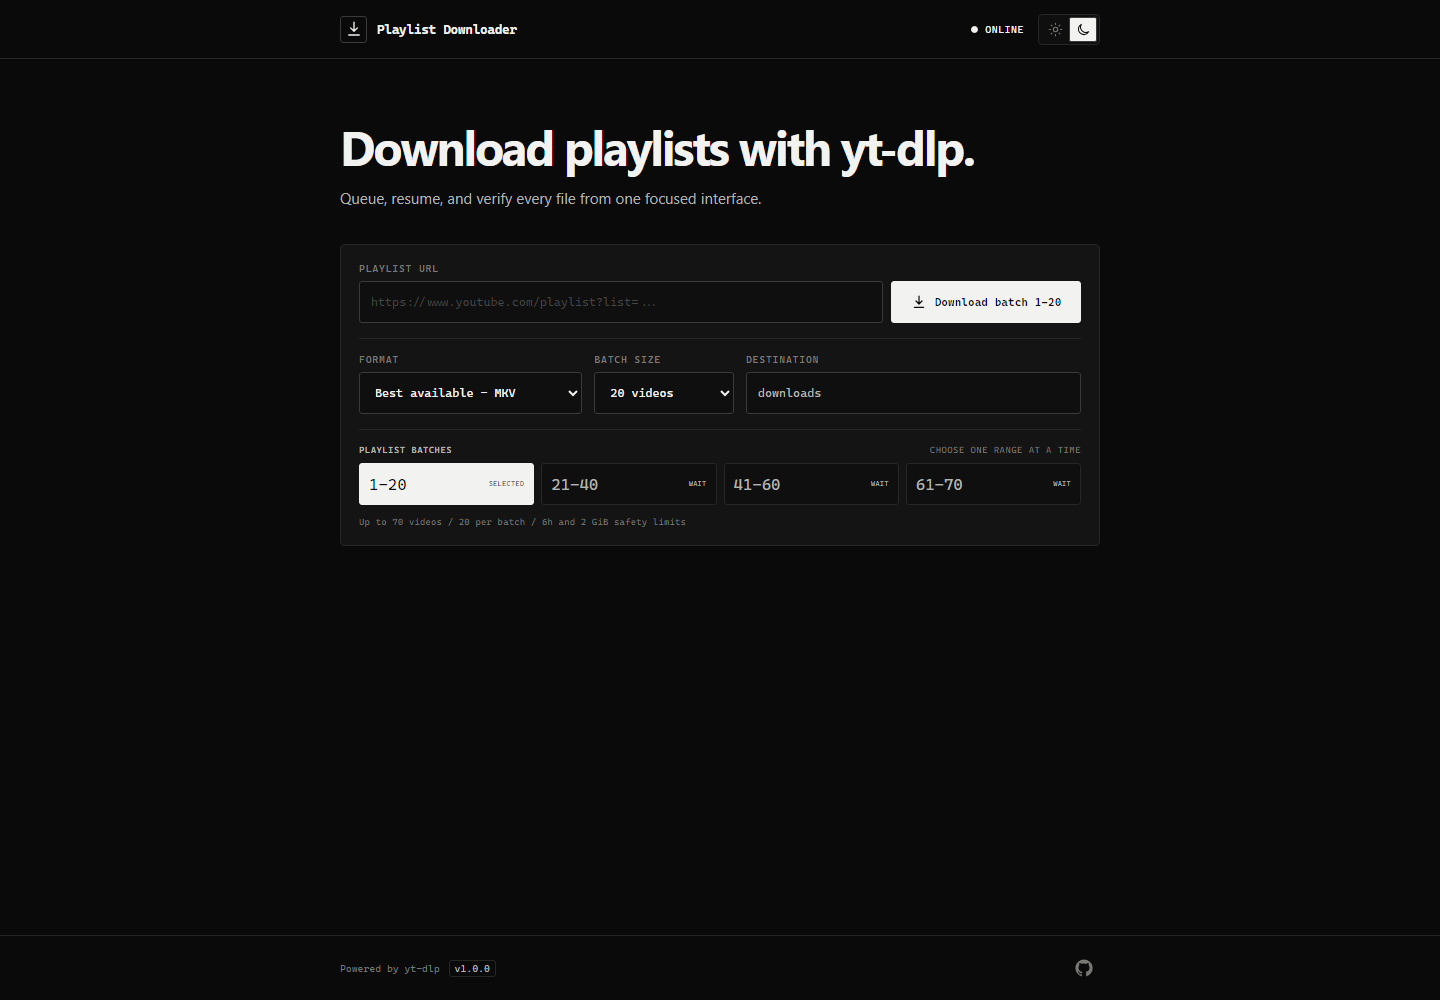
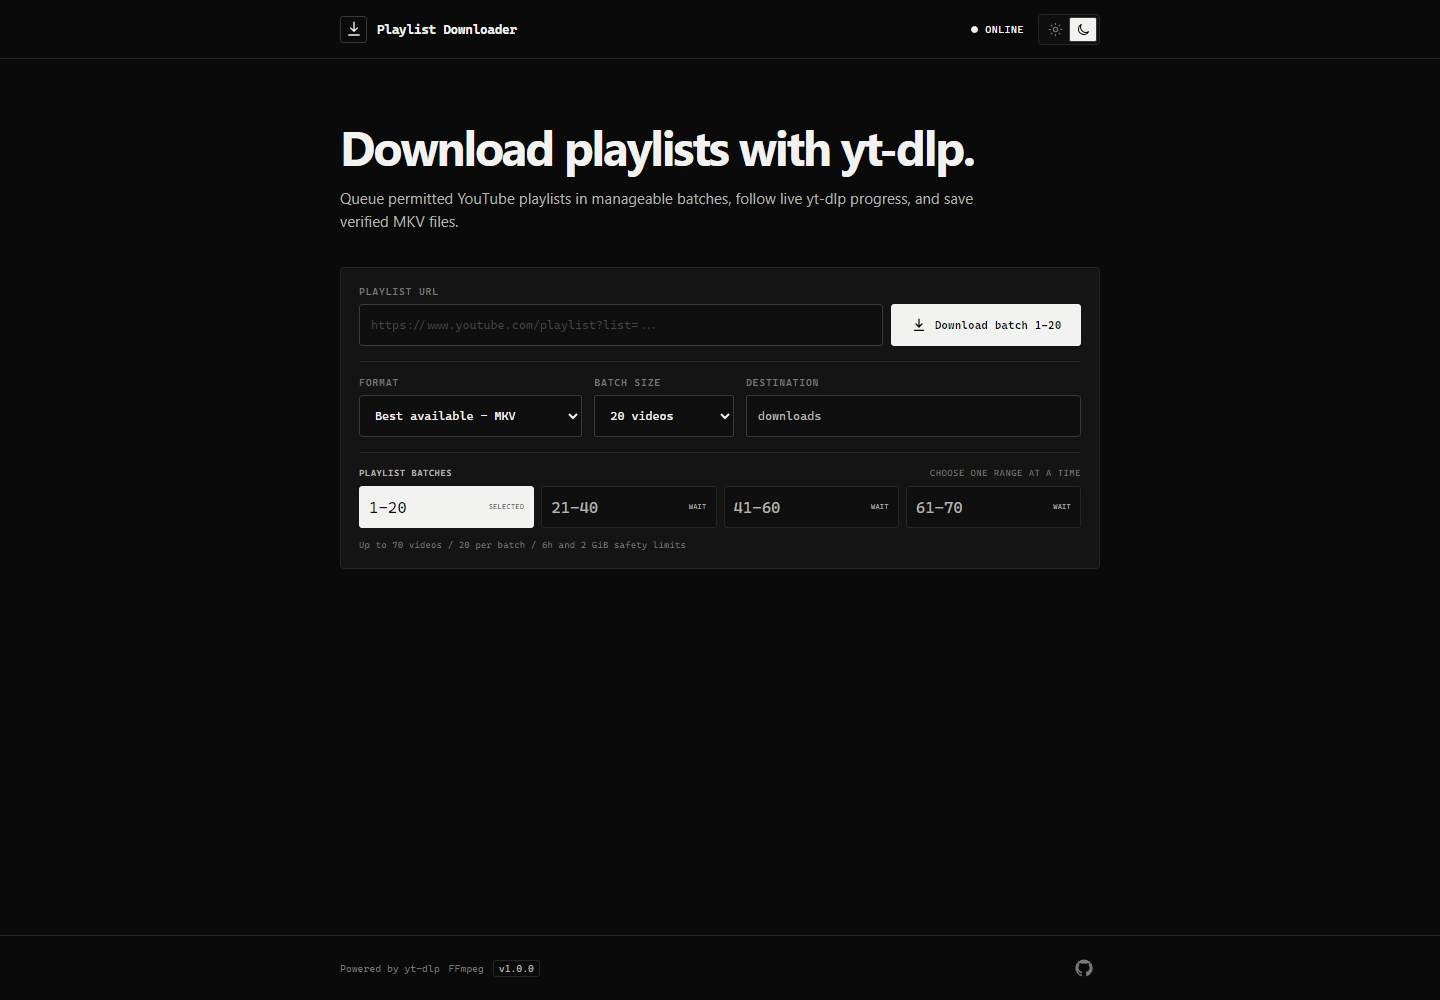
Add production SEO and public crawl metadata

diff --git a/index.html b/index.html
@@ -4,14 +4,50 @@
     <meta charset="UTF-8" />
     <meta name="viewport" content="width=device-width, initial-scale=1.0" />
     <meta name="theme-color" content="#0A0A0A" />
-    <meta
-      name="description"
-      content="A secure, resumable playlist downloader powered by yt-dlp."
-    />
-    <title>Playlist Downloader</title>
+    <meta name="color-scheme" content="dark light" />
+    <meta name="application-name" content="Playlist Downloader UI" />
+    <meta name="author" content="Lakshay Khattar" />
+    <meta name="robots" content="index, follow, max-image-preview:large, max-snippet:-1, max-video-preview:-1" />
+    <meta name="googlebot" content="index, follow, max-image-preview:large, max-snippet:-1, max-video-preview:-1" />
+    <meta name="description" content="A secure, self-hosted yt-dlp web interface for downloading YouTube playlists in manageable batches with live progress, resume support, and file verification." />
+    <meta name="keywords" content="yt-dlp web UI, playlist downloader, self-hosted downloader, YouTube playlist batch downloader, React yt-dlp interface" />
+
+    <link rel="canonical" href="https://playlist-downloader-ui.onrender.com/" />
+    <link rel="author" href="https://github.com/LakshayKhattar" />
+    <link rel="sitemap" type="application/xml" href="/sitemap.xml" />
+    <link rel="icon" href="/favicon.svg" type="image/svg+xml" />
+    <link rel="manifest" href="/site.webmanifest" />
+
+    <meta property="og:type" content="website" />
+    <meta property="og:site_name" content="Playlist Downloader UI" />
+    <meta property="og:title" content="Playlist Downloader UI – Secure yt-dlp Web Interface" />
+    <meta property="og:description" content="Download permitted YouTube playlists in manageable batches with live yt-dlp progress, resumable jobs, and verified output files." />
+    <meta property="og:url" content="https://playlist-downloader-ui.onrender.com/" />
+    <meta property="og:image" content="https://raw.githubusercontent.com/LakshayKhattar/playlist-downloader-ui/main/docs/images/playlist-downloader-ui.png" />
+    <meta property="og:image:type" content="image/png" />
+    <meta property="og:image:width" content="1440" />
+    <meta property="og:image:height" content="1000" />
+    <meta property="og:image:alt" content="Playlist Downloader UI showing selectable playlist batch ranges" />
+    <meta property="og:locale" content="en_US" />
+
+    <meta name="twitter:card" content="summary_large_image" />
+    <meta name="twitter:title" content="Playlist Downloader UI – Secure yt-dlp Web Interface" />
+    <meta name="twitter:description" content="A self-hosted React and Express interface for safe, resumable yt-dlp playlist batches." />
+    <meta name="twitter:image" content="https://raw.githubusercontent.com/LakshayKhattar/playlist-downloader-ui/main/docs/images/playlist-downloader-ui.png" />
+    <meta name="twitter:image:alt" content="Playlist Downloader UI showing selectable playlist batch ranges" />
+
+    <script type="application/ld+json">{"@context":"https://schema.org","@type":"WebApplication","name":"Playlist Downloader UI","url":"https://playlist-downloader-ui.onrender.com/","description":"A secure, self-hosted yt-dlp web interface for downloading permitted YouTube playlists in manageable batches with live progress, resume support, and file verification.","applicationCategory":"MultimediaApplication","operatingSystem":"Any","isAccessibleForFree":true,"license":"https://opensource.org/license/mit","codeRepository":"https://github.com/LakshayKhattar/playlist-downloader-ui","sameAs":["https://github.com/LakshayKhattar/playlist-downloader-ui","https://github.com/yt-dlp/yt-dlp"],"creator":{"@type":"Person","name":"Lakshay Khattar","url":"https://github.com/LakshayKhattar"},"offers":{"@type":"Offer","price":"0","priceCurrency":"USD"}}</script>
+    <title>Playlist Downloader UI | Secure yt-dlp Web Interface</title>
   </head>
   <body>
-    <div id="root"></div>
+    <div id="root">
+      <main class="seo-fallback">
+        <h1>Download YouTube playlists in manageable batches</h1>
+        <p>A secure, self-hosted web interface for yt-dlp with live progress, resumable jobs, and verified MKV output.</p>
+        <p>Process only media you are permitted to save. Built as an independent UI for <a href="https://github.com/yt-dlp/yt-dlp">yt-dlp</a> and <a href="https://ffmpeg.org/">FFmpeg</a>.</p>
+        <p><a href="https://github.com/LakshayKhattar/playlist-downloader-ui">View the open-source project on GitHub</a>.</p>
+      </main>
+    </div>
     <script type="module" src="/src/main.jsx"></script>
   </body>
 </html>

diff --git a/test/seo.test.js b/test/seo.test.js
@@ -1,0 +1,50 @@
+import assert from 'node:assert/strict';
+import fs from 'node:fs/promises';
+import path from 'node:path';
+import test from 'node:test';
+import { fileURLToPath } from 'node:url';
+
+const root = path.resolve(path.dirname(fileURLToPath(import.meta.url)), '..');
+const canonicalUrl = 'https://playlist-downloader-ui.onrender.com/';
+
+async function read(relativePath) {
+  return fs.readFile(path.join(root, relativePath), 'utf8');
+}
+
+test('HTML exposes canonical metadata, social cards, structured data, and crawlable fallback text', async () => {
+  const html = await read('index.html');
+  assert.match(html, /<html lang="en">/);
+  assert.match(html, /<title>Playlist Downloader UI \| Secure yt-dlp Web Interface<\/title>/);
+  assert.ok(html.includes(`<link rel="canonical" href="${canonicalUrl}"`));
+  assert.ok(html.includes(`<meta property="og:url" content="${canonicalUrl}"`));
+  assert.match(html, /name="twitter:card" content="summary_large_image"/);
+  assert.match(html, /name="robots" content="index, follow/);
+  assert.match(html, /<main class="seo-fallback">/);
+  assert.match(html, /github\.com\/yt-dlp\/yt-dlp/);
+  assert.match(html, /github\.com\/LakshayKhattar\/playlist-downloader-ui/);
+
+  const jsonLd = html.match(/<script type="application\/ld\+json">([^<]+)<\/script>/)?.[1];
+  assert.ok(jsonLd, 'JSON-LD block is missing.');
+  const schema = JSON.parse(jsonLd);
+  assert.equal(schema['@type'], 'WebApplication');
+  assert.equal(schema.url, canonicalUrl);
+  assert.equal(schema.isAccessibleForFree, true);
+  assert.equal(schema.codeRepository, 'https://github.com/LakshayKhattar/playlist-downloader-ui');
+});
+
+test('crawler, sitemap, manifest, and favicon assets are internally consistent', async () => {
+  const [robots, sitemap, manifestText, favicon] = await Promise.all([
+    read('public/robots.txt'),
+    read('public/sitemap.xml'),
+    read('public/site.webmanifest'),
+    read('public/favicon.svg'),
+  ]);
+  const manifest = JSON.parse(manifestText);
+  assert.match(robots, /User-agent: \*/);
+  assert.match(robots, /Disallow: \/api\//);
+  assert.ok(robots.includes(`Sitemap: ${canonicalUrl}sitemap.xml`));
+  assert.ok(sitemap.includes(`<loc>${canonicalUrl}</loc>`));
+  assert.equal(manifest.start_url, '/');
+  assert.equal(manifest.icons[0].src, '/favicon.svg');
+  assert.match(favicon, /^<svg[^>]+viewBox="0 0 64 64"/);
+});

diff --git a/src/App.jsx b/src/App.jsx
@@ -443,7 +443,7 @@ export default function App() {
   }, [theme]);
 
   useEffect(() => {
-    document.title = appName;
+    document.title = `${appName} | Secure yt-dlp Web Interface`;
   }, [appName]);
 
   useEffect(() => {
@@ -579,7 +579,7 @@ export default function App() {
       <main className="content-width main-content">
         <section className="intro" aria-labelledby="page-title">
           <h1 id="page-title">Download playlists with yt-dlp.</h1>
-          <p>Queue, resume, and verify every file from one focused interface.</p>
+          <p>Queue permitted YouTube playlists in manageable batches, follow live yt-dlp progress, and save verified MKV files.</p>
         </section>
 
         <form className="download-panel" onSubmit={submit} noValidate>
@@ -716,7 +716,8 @@ export default function App() {
       <footer className="footer">
         <div className="content-width footer__inner">
           <div className="footer-copy">
-            <span>Powered by yt-dlp</span>
+            <a className="footer-link" href="https://github.com/yt-dlp/yt-dlp" target="_blank" rel="noreferrer external">Powered by yt-dlp</a>
+            <a className="footer-link" href="https://ffmpeg.org/" target="_blank" rel="noreferrer external">FFmpeg</a>
             <span className="version-tag">{config?.version ? `v${config.version}` : 'version loading'}</span>
           </div>
           {config?.repositoryUrl && (
@@ -724,7 +725,7 @@ export default function App() {
               className="github-link"
               href={config.repositoryUrl}
               target="_blank"
-              rel="noreferrer"
+              rel="noreferrer external"
               aria-label={`Open the ${appName} GitHub repository`}
               title="Project repository"
             >

diff --git a/test/security.test.js b/test/security.test.js
@@ -148,7 +148,7 @@ test('remote mode still requires the configured public authority', () => {
   assert.equal(response.statusCode, 421);
 });
 
-test('optional HTTP authentication protects the app but leaves the health check available', async (t) => {
+test('optional HTTP authentication protects the API while leaving public documents and health available', async (t) => {
   const port = await freePort();
   const jobs = {
     async initialize() {},
@@ -168,6 +168,9 @@ test('optional HTTP authentication protects the app but leaves the health check 
 
   const health = await request(port, { route: '/api/health' });
   assert.equal(health.status, 200);
+
+  const publicDocument = await request(port, { route: '/robots.txt' });
+  assert.notEqual(publicDocument.status, 401);
 
   const unauthenticated = await request(port, { route: '/api/config' });
   assert.equal(unauthenticated.status, 401);
@@ -338,6 +341,7 @@ test('HTTP boundary blocks hostile hosts/origins and requires a launch token bef
   const config = await request(port, { route: '/api/config', host: `localhost:${port}` });
   assert.equal(config.status, 200);
   assert.match(config.headers['cache-control'], /no-store/);
+  assert.equal(config.headers['x-robots-tag'], 'noindex, nofollow, noarchive');
   const configBody = JSON.parse(config.body);
   const { csrfToken } = configBody;
   assert.ok(csrfToken.length >= 32);

diff --git a/server/security.js b/server/security.js
@@ -113,7 +113,9 @@ export function createSecurityContext({
 
   function requireAuthentication(request, response, next) {
     const isHealthCheck = ['GET', 'HEAD'].includes(request.method) && request.path === '/api/health';
-    if (!authenticationEnabled || isHealthCheck) {
+    const isApiRequest = request.path === '/api' || request.path.startsWith('/api/');
+    const isPublicDocument = ['GET', 'HEAD'].includes(request.method) && !isApiRequest;
+    if (!authenticationEnabled || isHealthCheck || isPublicDocument) {
       next();
       return;
     }
@@ -141,7 +143,7 @@ export function createSecurityContext({
       'WWW-Authenticate': `Basic realm="${realm}", charset="UTF-8"`,
       'Cache-Control': 'no-store',
     });
-    if (request.path.startsWith('/api/')) {
+    if (isApiRequest) {
       response.status(401).json({ error: 'Authentication is required.', code: 'AUTH_REQUIRED' });
     } else {
       response.status(401).type('text/plain').send('Authentication is required.');

diff --git a/src/styles.css b/src/styles.css
@@ -53,6 +53,27 @@ body {
   -moz-osx-font-smoothing: grayscale;
 }
 
+.seo-fallback {
+  width: min(760px, calc(100% - 32px));
+  margin: 12vh auto;
+  font-family: var(--sans);
+}
+
+.seo-fallback h1,
+.seo-fallback a {
+  color: var(--text-high);
+}
+
+.seo-fallback h1 {
+  font-size: clamp(34px, 6vw, 48px);
+  line-height: 1.06;
+}
+
+.seo-fallback p {
+  max-width: 680px;
+  line-height: 1.6;
+}
+
 button,
 input,
 select {
@@ -779,6 +800,17 @@ progress::-moz-progress-bar {
   display: flex;
   align-items: center;
   gap: 9px;
+}
+
+.footer-link {
+  color: var(--text-mid);
+  text-decoration: none;
+}
+
+.footer-link:hover {
+  color: var(--text-high);
+  text-decoration: underline;
+  text-underline-offset: 3px;
 }
 
 .version-tag {

diff --git a/server/index.js b/server/index.js
@@ -62,6 +62,7 @@ export async function createApplication({ jobs: suppliedJobs, tools, port = PORT
   app.use(security.requireAuthentication);
   app.use('/api', (_request, response, next) => {
     response.set('Cache-Control', 'no-store');
+    response.set('X-Robots-Tag', 'noindex, nofollow, noarchive');
     next();
   });
 

diff --git a/README.md b/README.md
@@ -2,6 +2,8 @@
 
 An independent, secure, and resumable UI and orchestration layer for [`yt-dlp`](https://github.com/yt-dlp/yt-dlp), built with React and Express. Each playlist is stored in one flat folder and verified with `ffprobe` after download.
 
+**Live app:** [playlist-downloader-ui.onrender.com](https://playlist-downloader-ui.onrender.com/)
+
 > Download only media you are permitted to save. You are responsible for complying with YouTube's terms and applicable law.
 
 ![Playlist Downloader UI in dark mode](docs/images/playlist-downloader-ui.png)
@@ -89,7 +91,7 @@ This app requires a long-running Node process, SSE connections, media executable
 - [DEPLOY.md](DEPLOY.md): complete zero-cost Docker deployment on Render, including free-tier limits
 - [GUIDE.md](GUIDE.md): local staging and same-origin VPS deployment with systemd and Caddy
 
-Local and VPS deployments bind to `127.0.0.1` by default. Render mode binds publicly only when an exact HTTPS origin and password authentication are configured. See [SECURITY.md](SECURITY.md) for the security boundary and reporting policy.
+Local and VPS deployments bind to `127.0.0.1` by default. Render mode binds publicly only when an exact HTTPS origin and password authentication are configured. Its descriptive HTML and static assets remain public for indexing, while every API route except the minimal health check remains authenticated. See [SECURITY.md](SECURITY.md) for the security boundary and reporting policy.
 
 ## Credits
 

diff --git a/SECURITY.md b/SECURITY.md
@@ -14,7 +14,7 @@ Include the affected version, reproduction steps, impact, and any suggested reme
 
 This is a single-user downloader. Local and VPS installs bind to loopback by default. Hosted mode requires an exact HTTPS origin, explicit remote-access opt-in, and password authentication before the process will bind to `0.0.0.0`.
 
-The unauthenticated `/api/health` endpoint returns only service health and version. Every UI asset, job status endpoint, mutation, progress stream, and verified-file download requires authentication in hosted mode. Repeated incorrect credentials are rate limited. Never remove these controls or run an unauthenticated public download service.
+The public HTML shell and static assets contain only descriptive app content so crawlers can index the project. The unauthenticated `/api/health` endpoint returns only service health and version. Every other API route—including configuration, job status, mutations, progress streams, and verified-file downloads—requires authentication in hosted mode. Repeated incorrect credentials are rate limited. Never remove these API controls or run an unauthenticated public download service.
 
 Verified-file routes accept only the current opaque job ID and a numeric server-issued file index. The backend rechecks that the selected entry is a regular verified media file inside the configured download directory before serving it as an attachment.
 
